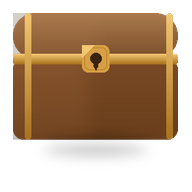
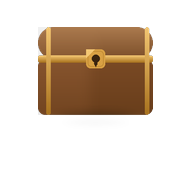
页内logo改为内联data-URI漂浮透明宝箱+全图标重生成漂浮版;版本2026.09.06.09(彻底免疫按路径缓存)

diff --git a/index.html b/index.html
@@ -25,7 +25,7 @@
   <meta name="twitter:card" content="summary">
   <meta name="twitter:title" content="栖匣 · 大学生成长中枢">
   <meta name="twitter:image" content="https://lumenplexus.github.io/centrove/pwa/share-chest20260910.png">
-  <link rel="manifest" href="pwa/manifest.json?v=2026091007">
+  <link rel="manifest" href="pwa/manifest.json?v=2026091009">
   <!-- favicon / 主屏图标：统一使用「全新文件名」favicon-chest20260910-*，这些 URL 从未上线、无任何旧缓存可回退，桌面 Chrome/Edge/微信即使命中过旧图标也会因 URL 全新而强制重新抓取下方透明漂空宝箱（无底色）。 -->
   <link rel="icon" type="image/png" sizes="192x192" href="favicon-chest20260910-192.png">
   <link rel="icon" type="image/png" sizes="96x96" href="favicon-chest20260910-96.png">
@@ -1665,7 +1665,7 @@ input:focus,textarea:focus,select:focus{border-color:var(--primary);background:#
       <svg viewBox="0 0 24 24" fill="none" stroke="currentColor" stroke-width=" 2"><line x1="3" y1="6" x2="21" y2="6"></line><line x1="3" y1="12" x2="21" y2="12"></line><line x1="3" y1="18" x2="21" y2="18"></line></svg>
     </button>
     <div class="tb-brand" onclick="switchView('home');setBottomActive(null,'home')" style="cursor:pointer" title="回到今日概览">
-      <img src="pwa/logo-chest20260910.png" alt="栖匣" class="tb-logo" onerror="logoFallback(this)"><span class="tb-name">栖匣</span>
[1 lines of base64/hex data omitted]
     </div>
     <div class="tb-slogan">心有所栖 · 匣纳成长</div>
     <div class="tools">
@@ -1786,7 +1786,7 @@ input:focus,textarea:focus,select:focus{border-color:var(--primary);background:#
 
     <nav class="sidebar" id="sidebar">
     <div class="logo">
-      <img src="pwa/logo-chest20260910.png" alt="栖匣" style="width:22px;height:22px;border-radius:6px;flex-shrink:0" onerror="logoFallback(this)">
[1 lines of base64/hex data omitted]
       栖匣
     </div>
     <input id="navSearch" placeholder="🔍 搜索板块…" style="width:100%;padding:7px 10px;border:1px solid var(--border);border-radius:10px;font-size:13px;margin-bottom:6px;background:var(--bg);color:var(--text)" oninput="filterNav(this.value)">
@@ -1940,7 +1940,7 @@ input:focus,textarea:focus,select:focus{border-color:var(--primary);background:#
       <div class="home-hero card" style="margin-bottom:16px;background:linear-gradient(135deg,#F5EFE2,#EDE5D4);border:1px solid #E5DBC8;color:#4A3B2E">
         <div style="display:flex;align-items:flex-end;justify-content:space-between;flex-wrap:wrap;gap:10px">
           <div style="display:flex;align-items:center;gap:12px">
-            <img src="pwa/logo-chest20260910.png" alt="栖匣" style="width:46px;height:46px;border-radius:12px;box-shadow:0 2px 10px rgba(74,59,46,.15)" onerror="logoFallback(this)">
[1 lines of base64/hex data omitted]
             <div>
               <div style="font-size:24px;font-weight:800;letter-spacing:6px;line-height:1.2;color:var(--primary)">栖匣</div>
               <div style="font-size:13px;color:var(--muted);margin-top:3px;letter-spacing:1px">心有所栖 · 匣纳成长 · 为大学生打造的成长园地</div>
@@ -13282,7 +13282,7 @@ document.addEventListener('keydown',function(e){if(e.key==='Escape')closeQrPrevi
         '<span style="font-size:11px;letter-spacing:3px;color:var(--hint)">栖匣｜收纳成长诸事，步步趋近心中所向</span>'+
       '</div>'+
       '<div style="position:relative;margin:14px auto 0;width:66px;height:66px;border-radius:50%;display:flex;align-items:center;justify-content:center;border:1.5px solid var(--primary);background:var(--card);box-shadow:0 0 0 6px var(--primary-light);overflow:hidden">'+
-        '<img src="pwa/logo-chest20260910.png" alt="栖匣" style="width:60px;height:60px;border-radius:50%;display:block" onerror="logoFallback(this)">'+
[1 lines of base64/hex data omitted]
       '</div>'+
       '<div style="margin-top:13px;font-size:22px;font-weight:800;letter-spacing:4px;color:var(--primary-strong)">栖匣<span style="font-size:12.5px;letter-spacing:3px;font-weight:400;color:var(--hint)"> · 心有所栖 · 匣纳成长</span></div>'+
       '<div style="margin:10px auto 6px;font-size:14px;color:var(--text);line-height:1.85;max-width:520px">你见过很多工具。<br>而这一页，为长期记录成长的人而造。</div>'+
@@ -13871,7 +13871,7 @@ if(document.readyState==='loading'){document.addEventListener('DOMContentLoaded'
     <!-- 封面首屏 (步骤 1) -->
     <section class="pano-hero" data-step="0">
       <span class="pt-topscallop" aria-hidden="true"></span>
-      <div class="pt-sash"><span class="pt-seal" style="background:none;box-shadow:none;padding:0;width:24px;height:24px;border-radius:8px;overflow:hidden"><img src="pwa/logo-chest20260910.png" alt="栖匣" style="width:24px;height:24px;display:block" onerror="logoFallback(this)"></span><span class="pt-name">栖匣</span><i></i></div>
[1 lines of base64/hex data omitted]
       <i class="pt-deco d1" aria-hidden="true"></i><i class="pt-deco d2" aria-hidden="true"></i><i class="pt-deco d3" aria-hidden="true"></i>
       <div class="glow"></div>
       <div class="pt-name-premium">
@@ -14036,7 +14036,7 @@ if(document.readyState==='loading'){document.addEventListener('DOMContentLoaded'
 
     <!-- 收官 CTA · 回到「栖匣」产品本身：以品牌印记 + 青绿留白 + 精排收束，收拢"学业·生活·成长的成长中枢"，去书/印外显 -->
     <div class="pano-cta">
-      <div class="ct-mark" aria-hidden="true"><img src="pwa/logo-chest20260910.png" alt="栖匣" draggable="false" onerror="logoFallback(this)"></div>
[1 lines of base64/hex data omitted]
       <div class="ct-eyebrow">终章 · 从此刻开始</div>
       <h2 class="ct-title">把每一天，<em>过出掌控感</em></h2>
       <p class="ct-lead">它不是"又一个工具"——它把<b>学业栖仓 · 锚愿匣 · 时栖录 · 贮金格 · 灵拾槽 · 安养隅……三四十个成长模块，分格收纳、各归其位</b>，都收进这个只属你的成长中枢。今天记下的一件小事，日后都有迹可循。</p>

diff --git a/sw.js b/sw.js
@@ -6,7 +6,7 @@
    - HTML 导航采用网络优先（保证每次拿到最新页面），静态资源采用 stale-while-revalidate
      （离线秒开、在线自动后台刷新）。
    安全说明：本 SW 只缓存本站静态资源，绝不读写、上传任何 localStorage 用户数据。 */
-var VERSION = '2026.09.06.08';
+var VERSION = '2026.09.06.09';
 var PRE = 'centrove-pre-' + VERSION;
 var RUN = 'centrove-run-' + VERSION;
 
